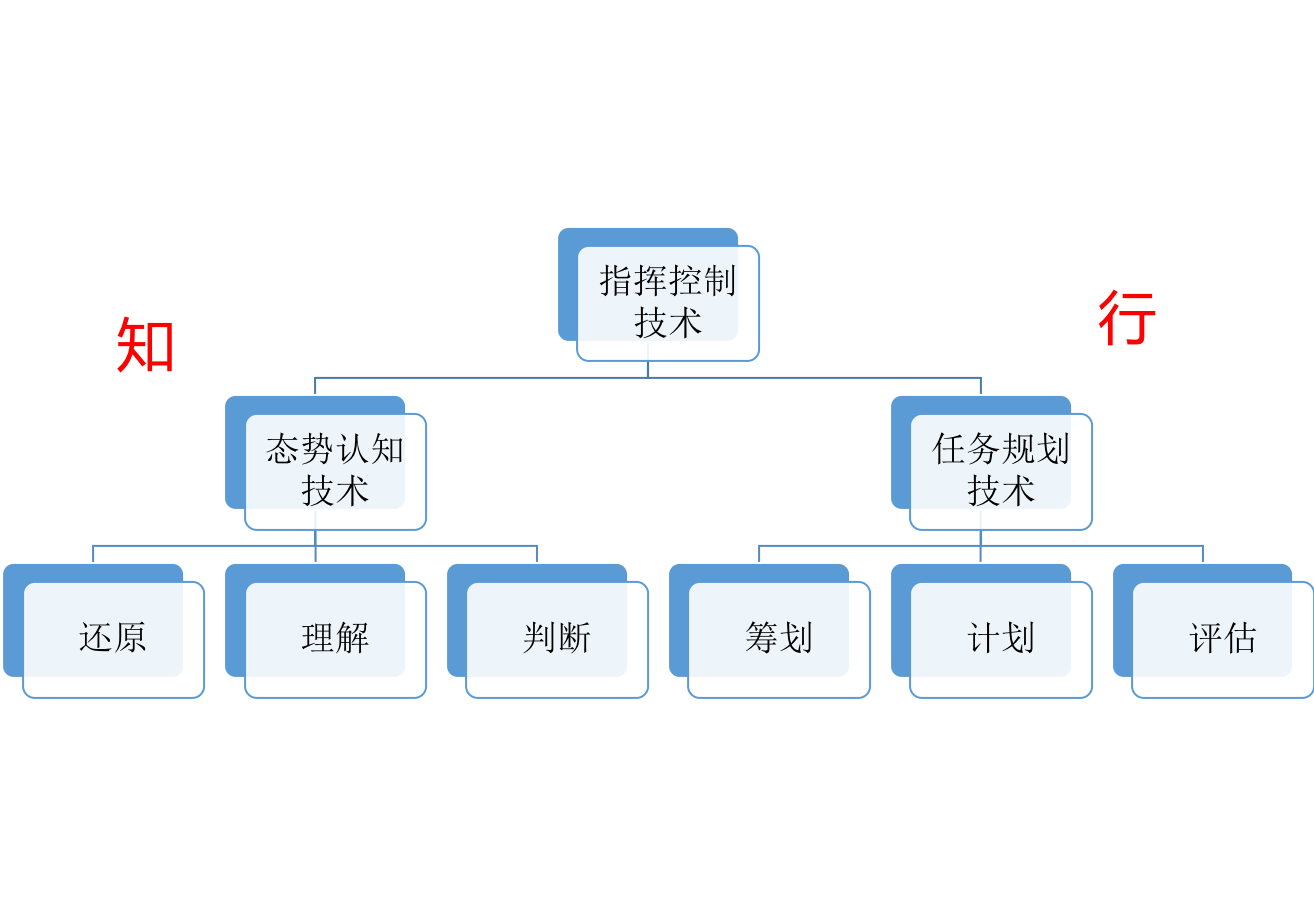
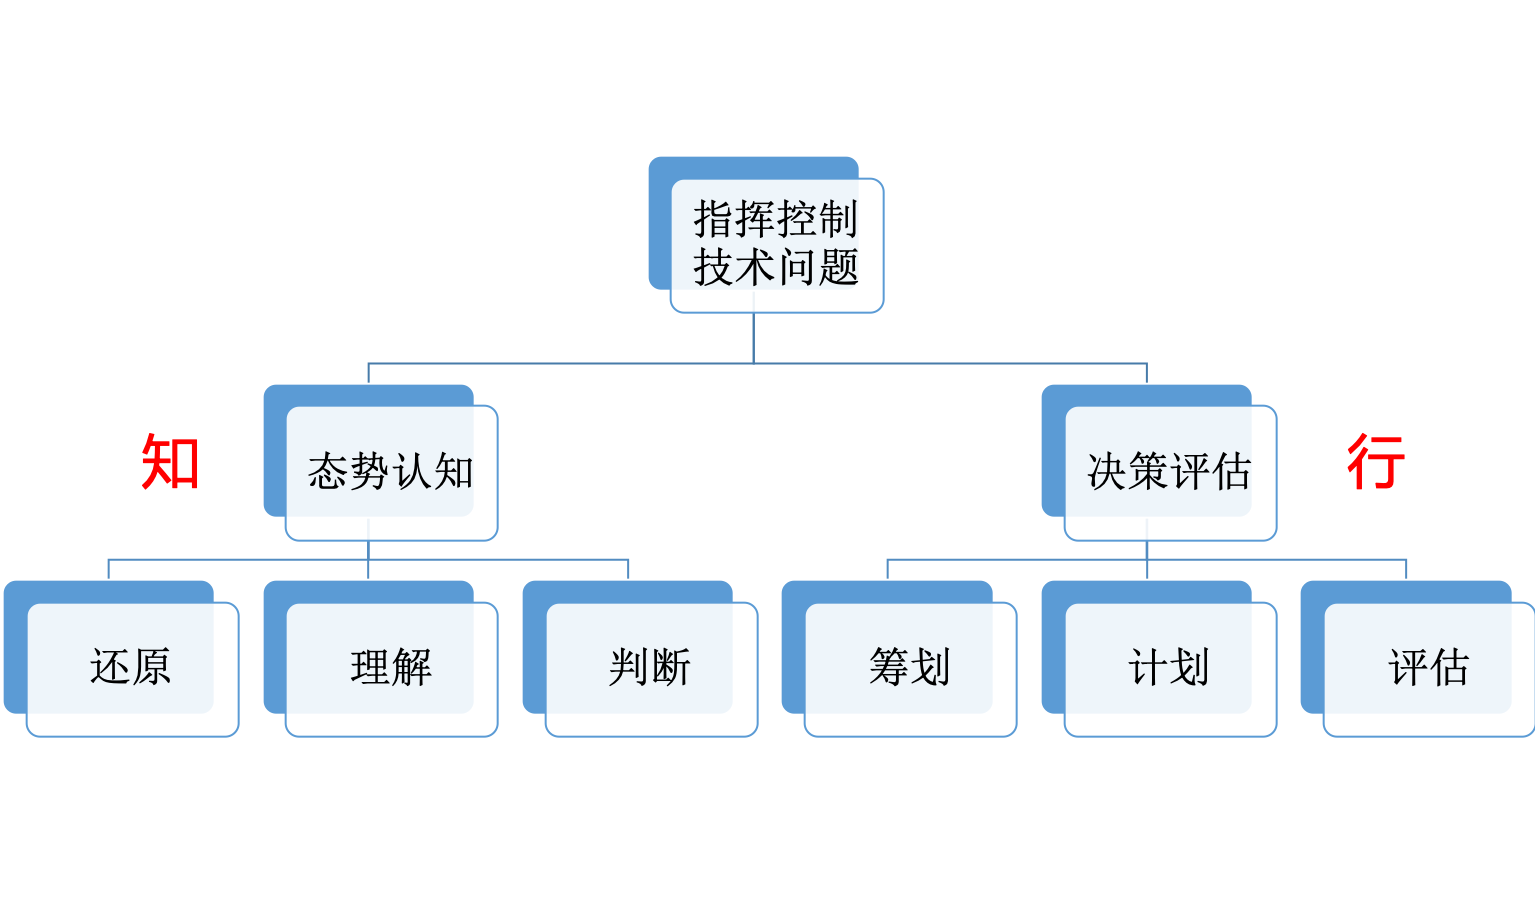
"任务规划" --> "决策评估"

diff --git a/README.md b/README.md
@@ -25,14 +25,15 @@ PLA军语将“指挥控制”定义为：“**指挥员及其指挥机关对部
 
 C2术语的出现体现了“指挥”、“控制”的结合，一方面体现了战争对战场硬件设施和技术的依赖性越来越强，另一方面也体现了由于战争活动中所涉及要素的复杂性增强，以至于对战场的集中控制成为必须。因此，C2是“战争机器”精确、快速、高效运作的需要，也是科学技术，特别是工业革命以来的科学技术在军事领域运用的产物。
 
-
-
 对于两者的关系，我们有如下理解：
 
  - 从时序看，“指挥”必须为将要完成之事明确方向，并塑造系统的特征和本质，以便认识和塑造将要完成之事；而“控制”必须对正在完成之事进行清楚和毫不含糊的评估，并对过程进行修正。(**指挥控制必须允许人们指导和塑造将要完成之事，同时允许人们根据对正在完成之事的评估修正这种指导。——约翰.R.博伊德**)
  - 从特征看，“指挥”解决的是作战当中诸如谋划、决策等重大问题，是一种创造性很强的活动，因此具有更多的灵活性、策略性、艺术性。“控制”是把决心变为现实、逐步实现作战目标的具体措施和过程，具有创造性，但更富事务性、规范性、程序性和可操作性。
 
 因此，有个形象的比喻：如果将兵力比作马，指挥比作骑手，控制比作挽具。
+
+虽然C2术语起源于军事，但C2的概念、方法被广泛使用于应急指挥、生产管理、空中交通管制等众多领域。[《C2 Re-envisioned: The Future of the Enterprise》](https://www.amazon.cn/dp/1466595809)一书中对广义C2的定义为：“指挥和控制由组织、技术的属性组成，企业藉此安排使用人力、物力和信息资源，以解决问题、完成任务”；《2015-2015 指挥与控制学科发展报告》对广义C2的定义为：“指挥和控制是指为完成事先指定的任务，综合运用多种技术和一系列信息过程，对群体性社会活动进行快速协调、调度、管理或治理。”
+
 
 C2过程最广为人知的是[**OODA**](https://en.wikipedia.org/wiki/OODA_loop)模型，简言之是指从“观察”到“行动”，也是从“数据”到“决策”的过程。
 ![OODA](./graphs/OODA.jpg)
@@ -41,10 +42,9 @@ C2过程最广为人知的是[**OODA**](https://en.wikipedia.org/wiki/OODA_loop)
 
 C2的成效是胜负的决定性因素。在战争中，任何一项其它活动的重要程度都无法与指挥与控制相提并论。因此，C2理论与技术的研究一直是军事、管理、理论研究中最活跃的领域之一。值得指出的是，C2研究具有典型的交叉、跨学科的特点，涉及的相关学科包括计算机、通信、控制、数学、军事、管理、系统工程等。
 
-我们将所关心的C2问题划分为“理论”、“技术”两大类型。“理论”侧重对基本原理的研究，主要包括C2的领域、模式、过程、方法、组织设计等问题，“技术”侧重OODA闭环中各类支撑、使能技术的研究，可大致归结为态势认知、任务规划两类。
+我们将所关心的C2问题划分为“理论问题”、“技术问题”两大类型。“理论问题”侧重对基本原理的研究，主要包括C2的领域、模式、过程、方法、组织设计等问题，“技术问题”侧重OODA闭环中各类支撑、使能技术问题的研究，可大致归结为态势认知、决策评估两类。
 
-## C2理论
-
+## C2理论问题
 
 20世纪90年代以来，新一轮以信息化为标志的军事变革掀起了以消除各军兵种“烟囱系统”、建立指挥系统之间的“互联、互通、互操作”为目的的C2系统发展高潮。C2迅速从单纯的C2演化到 C3I、C4I、C4ISR等等，技术元素与功能形式等越来越多，结构与过程越来越复杂，涉及到的人、信息与结构及其对象等指挥与控制要素都发生了发生深刻变化。**智能** 技术的迅速兴起又给C2注入了新的发展动力，以智能化为特征的C2系统成为未来发展的重点，整个领域面临着一场深刻的变革。在信息与智能时代，C2可以突破传统的统一指挥、统一意图、等级组织、直接控制等方式，并表现出不确定性、动态性、随机性、涌现性、非线性等特点。
 
@@ -63,9 +63,9 @@ C2的成效是胜负的决定性因素。在战争中，任何一项其它活动
 >有关以上问题的整体性简要描述请参考“[信息与智能时代指挥与控制基本理论问题](https://mp.weixin.qq.com/s/sfib0Opef_FxsoY-j8Cbyw)”）。
 
 
-## C2技术
+## C2技术问题
 
-C2技术，可以理解为贯穿从“观察”到“行动”的循环中的支撑和使能技术，可以形象地理解为“知而后行”。“知”对应态势认知技术，“行”对应任务规划技术，如下图所示。“知行合一”，才能无往而不胜。
+C2技术，可以理解为贯穿从“观察”到“行动”的循环中的支撑和使能技术，可以形象地理解为“知而后行”。“知”对应态势认知，“行”对应决策评估，如下图所示。“知行合一”，才能无往而不胜。
 ![C2 Technology](./graphs/C2_Technology.png)
 
 
@@ -85,63 +85,78 @@ C2技术，可以理解为贯穿从“观察”到“行动”的循环中的支
  以空情态势为例：针对来袭的飞行器，首先通过各类传感器获取关于目标的各维度观测数据，通过数据融合、关联，形成目标航迹，并基于特征识别目标类型，最终形成对目标威胁程度的判断。
  ![AirDefenese](./graphs/AirDefense.png)
 
- 由此可见，在态势认知过程中，既涉及基于数据的客观还原，也有对形势和趋势的主观理解和判断。这一过程可分为四个层次：数据（Data）、信息（Information）、知识（Knowledge）和理解（Understanding）。其中：
-  - **数据**：通过观测，获取关于态势要素的表征
-  - **信息**：通过对数据的解读、关联、融合，还原数据的含义
-  - **知识**：通过对信息进行过滤、提炼，挖掘高阶、深层的规律
-  - **理解**：形成对态势的主观认识、预测未来，并演绎出解决方案
+ 除了对个体的认知外，更重要的是对整体的认知。如，冷战时期曾有研究对苏联的铁路网进行分析，从中找出其关键点作为打击目标，以期迟滞苏军向西欧推进的速度。
+![Railway](./graphs/Railway.png)
 
-![SA](./graphs/SA.png)
+无独有偶，日本《军事研究》2014年11月号刊载了题为《攻击长江铁路桥可产生摧毁中国的效果》的文章，提出了在难以对中国内陆实施长时间持续轰炸的条件下，选择京广、京沪、京九、武广等线路的长江铁路桥作为打击目标将成为瓦解中国战时经济、使中国屈服的理想策略。除给出基于中国南北交通流量的计算依据外，文章还进一步给出了利用巡航导弹从防空能力相对薄弱的中国西南方向进行突击的“低成本”实现方案。
 
 JDL、SA是与态势认知密切相关的两个过程模型，前者基于数据处理与融合的角度，后者则基于决策者的认知角度。JDL模型可参见“[Revisions to the JDL
 Data Fusion Model](http://dsp-book.narod.ru/HMDF/2379ch02.pdf)”，SA模型可参见维基百科词条"[Situation Awareness](https://en.wikipedia.org/wiki/Situation_awareness)"，以及“[什么是态势感知？](https://mp.weixin.qq.com/s/0J-TjPgBWmZWjnzqi9nXHA)”
 
-大数据与AI技术的突飞猛进为态势认知提供了新的方法与思路，大量无人作战装备走向战场也使得自动化、智能化的态势认知成为发展趋势。但是，与其他问题领域相比（如当今AI技术大显身手的棋牌类游戏），面向战场的态势认知主要难点在于：
- - 强对抗、观测不完全
- - 规模大、要素复杂
- - 实时性、完整性、准确性要求高
- - 游戏规则可能变化或颠覆
+我们认为，态势认知过程可以表达为从观测数据中还原对方信息，并进而理解其意图、判断其关键点、脆弱点的过程，如下图所示。
+![SA](./graphs/SA.png)
 
- 在这种开放、极端环境下，如何形成准确的态势认知，一直是态势认知研究中的重难点问题。在大数据和智能化的时代背景下，这一问题显得尤为重要和有价值。
-
-我们所关心的态势认知研究问题主要包括：
+与之对应，我们所关心的态势认知中的技术问题主要包括：
  - [**还原**：如何发现、识别对象，并还原对象间的结构和关系？](./research/SA_Uncover.md)
- - [**理解**：如何检测异常、评估威胁、理解意图、预测发展？](./research/SA_Understand.md)
+ - [**理解**：如何分析能力、检测异常、评估威胁、识别意图、评价风险？](./research/SA_Understand.md)
  - [**判断**：如何判断关键点、脆弱点？](./research/SA_Identify.md)
 
+C2中的态势认知问题的主要难点在于：
+ - 预处理困难：来自大量异构来源的观测数据，规模大、要素复杂，格式错乱或者缺少格式，信息的提取、去重、去伪、消歧困难
+ - 不完整、有噪音：观测数据不完整，而且混杂有噪音甚至有意的干扰
+ - 标注困难：数据标注成本高，训练数据集不易获取
+ - 特征隐藏：在对抗环境中，对方将极力隐藏自身的特征
+ - 动态变化：系统/体系具有动态适应性、对抗性
+ - 实时性、完整性、准确性要求高
 
-### 任务规划
+大数据与AI技术的突飞猛进为态势认知提供了新的方法与思路，自动化、智能化的态势认知成为发展趋势。一些值得注意的方法包括：
+ - 机器学习：利用小样本、弱监督的机器学习方法，以较小的代价，提取深层、稳定的关键特征，利用迁移学习，充分利用相似领域中已训练好的模型
+ - 知识综合：综合利用多种类型的知识（如本体、知识图谱、因果图等），进行合理的猜测、推断。
+ - 系统建模：从结构、行为等角度建立模型，刻画系统的内在规律、影响关系、发展变化等，以便进行预测、控制
 
+### 决策评估
 
-**任务规划** 指根据意图生成具体可实施的行动计划，其本质是把有限的资源在正确的时间部署到正确的地点去执行正确的任务，并在这一过程中实现预设目标的优化。它是一个涉及到行动过程、资源调度、时空协同等要素的决策过程。在日常生活中，个人及团队的任务管理、活动安排、路线规划，以及企业生产中的资源调度、人员排班等，也都是任务规划的具体体现。
+C2中的**决策评估** 指在态势认知的基础上，确定意图、生成行动方案/计划，并对方案/计划的效果、效率、代价、风险等进行评估的过程。其目的是把有限的资源在正确的时间部署到正确的地点去执行正确的任务，并在这一过程中实现预设目标的优化。
 
 古今中外的军事理论无不强调筹划、计划的重要性。《孙子兵法》将“计”作为开篇，进行了专门的论述，认为“夫未战而庙算胜者，得算多也，未战而庙算不胜者，得算少也。多算胜，少算不胜，而况无算乎”。宋代《册府元龟》卷“任篇”说，“运筹于帷握之中”。克劳塞维茨在《战争论》中提出：“战争计划总括全部军事行动，并且使它成为具有一个最终目的的统一行动”。
 
-从决策的层次看，规划问题一般可分为三个层次：战术(Tactical)、战役（Operational）、战略（Strategical）。随着层次的提高，人的“谋略”成分增加，对技术和平台的依赖越低。任务规划的技术研究主要针对前两个层次。
+从决策的层次看，C2中的决策问题一般可分为三个层次：战略（Strategical）、战役（Operational）、战术(Tactical)，不同层次的决策要素不同。
+- 战略层：明确行动的意图（目的）、资源投入、约束、底线等要素；
+- 战役层：根据战略层所确定的意图、资源、约束等条件，明确具体目标、阶段划分、力量编成，生成、分析、优选行动序列（Course of Action, COA）；
+- 战术层，根据行动序列，细化生成（对应到平台的）可实施的行动计划，包括行动路线、任务时序、协同方式等。
 
-在**战术层**，典型的任务规划问题如卫星观测任务规划、巡航导弹的路线规划、无人设备的载荷及行动规划等等。下图是NASA开源的数据可视化与任务规划框架软件[OpenMCT](https://nasa.github.io/openmct/)的界面，可对火星车任务进行管理调度以及状态监控。
+![Decision Level](./graphs/DecisionLevel.png)
 
-![OpenMCT](./graphs/OpenMCT.png)
-
-在**战役层**，一般需要将问题划分为多个阶段，考虑多类资源、装备、人员，处理复杂的协同关系和约束，生成、分析、优选行动序列。
-
-例如，下图是美空军的联合任务规划系统[JMPS-AF](http://www.dote.osd.mil/pub/reports/fy2012/pdf/af/2012mps-jmps-af.pdf)的界面。
+由于问题的复杂性，C2中的决策评估通常需要依赖软件系统进行辅助。例如，下图是美空军的联合任务规划系统[JMPS-AF](http://www.dote.osd.mil/pub/reports/fy2012/pdf/af/2012mps-jmps-af.pdf)的界面，该系统支持目标选择、武器匹配、航路规划等问题的辅助决策。
 
 ![MPS](./graphs/MPS.png)
 
-由于问题的复杂性，**战役层** 的决策过程可以拆分为两个相对独立而又紧密联系的过程。一是“**筹划**”过程，指在态势认知基础上对行动的目的、风险、过程、约束等要素进行整体构想，生成、分析、优选行动序列（Course of Action, COA）；另一个是“**计划**”过程，指通过一定的技术手段，将筹划结果转化为可实施的作战方案和行动计划。为确保决策质量和效率，通常还有规范的决策流程作为依据。
+下图是NASA开源的数据可视化与任务规划框架软件[OpenMCT](https://nasa.github.io/openmct/)的界面，可对火星车任务进行管理调度以及状态监控。
 
-例如，美军联合出版物JP5-0 "Joint Planning"(2017)将联合任务规划的流程分为：任务分析、COA生成、COA分析与推演、COA比较、COA批准、计划与指令生成等阶段。 “筹划”一般由指挥员在参谋团队的支撑下完成；“计划”则由参谋人员和专业技术人员依据筹划结果（COA）完成。
+![OpenMCT](./graphs/OpenMCT.png)
+
+为确保决策质量和效率，C2中的决策通常还有规范的流程作为依据。例如，美军联合出版物JP5-0 "Joint Planning"(2017)将联合作战计划生成的流程分为：任务分析、COA生成、COA分析与推演、COA比较、COA批准、计划与指令生成等阶段。 
+![Planning](./graphs/Planning.png)
 
 下图则描述了DARPA "[X计划](https://www.csmonitor.com/World/Passcode/2015/0216/The-Pentagon-is-building-an-app-store-for-cyberoperations)"中关于Cyber行动计划生成过程的示意图。
 ![PlanX](https://images.csmonitor.com/csm/2017/03/1032904_1_032117-DARPA13-passcode_standard.jpg?alias=standard_900x600)
 
-有关任务规划的概念、流程等，可参考“[浅谈对作战任务规划的认识](https://mp.weixin.qq.com/s/F8X2oXXqvxYKw7uiBeYO2A)”、“[从作战筹划到联合任务规划](https://mp.weixin.qq.com/s/zQF4bDCxgJSDP4mNL2wlsQ)”等文献。
+C2领域目前一个经常使用的词是“任务规划”，我们将其视为一种解决C2中决策评估问题的技术，但相当多的研究用其泛指C2中与决策有关的活动。有关“任务规划”的概念、流程等，可参考“[浅谈对作战任务规划的认识](https://mp.weixin.qq.com/s/F8X2oXXqvxYKw7uiBeYO2A)”、“[从作战筹划到联合任务规划](https://mp.weixin.qq.com/s/zQF4bDCxgJSDP4mNL2wlsQ)”等文献。
 
-如何在激烈变化、瞬息万变的对抗环境下，快速、高效地进行规划，并及时按需调整和优化，是任务规划中的重难点问题。我们所关心的任务规划研究问题主要包括：
- - [**筹划**：如何生成、对比、优化满足任务要求的行动序列（COA）？](./research/TP_COA.md)
- - [**计划**：如何对生成的COA匹配资源、消解冲突、规划时序？](./research/TP_Planning.md)
- - [**评估**：如何科学评估计划的效果、风险、代价？](./research/TP_Exp.md)
+我们所关心的决策评估问题主要包括：
+ - [**筹划**：如何选择目标、生成行动序列（COA）？](./research/TP_COA.md)
+ - [**计划**：如何进行资源调度、路径规划、检测并消解冲突？](./research/TP_Planning.md)
+ - [**评估**：如何科学评估方案/计划的效果、效率、风险、代价？](./research/TP_Exp.md)
+
+C2中决策评估问题的主要难点在于：
+ - 要素多且复杂：建模及求解困难
+ - 不确定性、对抗性强：可能出现的情况非常多（不可数），游戏规则可能变化，预先计划可能失效
+
+一些值得注意的方法包括：
+ - 智能博弈：“自我博弈”+“深度强化”，高效探索未知，优化策略
+ - 鲁棒规划：不变应万变，以鲁棒性为优化目标
+ - 数据驱动：与态势认知紧密结合，加快C2闭环
+ - 在线规划：快速适应变化，实时规划
 
 
 # 关于我们

diff --git a/Talks.md b/Talks.md
@@ -1,7 +1,7 @@
 Talks and Presentations (Under Construction)
  - [指控研究方向简介](https://pan.baidu.com/s/1T0PuLGr2_YED4IO6AlHVxg), 2019.9 提取码：93y4
 - [Cyber及其行动](https://pan.baidu.com/s/1-DcsAwpxhmrsrA2cKOJ0WQ), 2019.9 提取码：w1mx 
- - [《指挥控制原理》课程课件](https://pan.baidu.com/s/1pudi12pTza8rn6-RUrd7xQ),2019.8
+ - [《指挥控制原理》课程课件](https://pan.baidu.com/s/1GYMaN0htUtWMAPvKFkPxzg),2019.8
  - [研究选题指南](https://pan.baidu.com/s/1XgRukE1nh0p8zJqEAaVXBg),国防科技大学,2019.6.11, 提取码: tmfs
  - [网络空间态势认知问题研究](https://mp.weixin.qq.com/s/I87C-ouigFhIX4ugbzw8CA), 2018第六届指挥控制大会专题论坛报告, 北京
  - [军事信息网络及其抗毁性研究](https://pan.baidu.com/s/1jkZ5LwSmj7--Tvv2BHGxxA), 2018第一届复杂网络系统可靠性会议, 长沙. [会议报告全集分享](https://pan.baidu.com/s/12I6jomTGCdfShJGekx6xnA)
